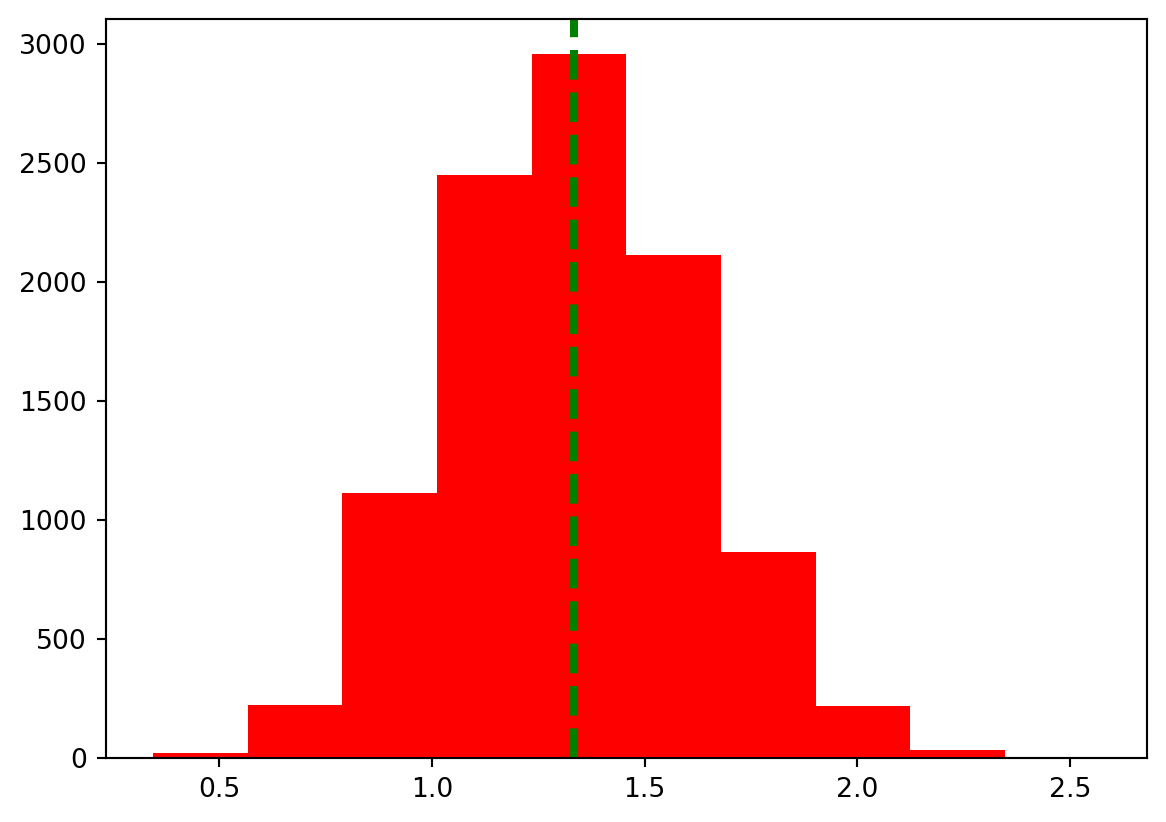
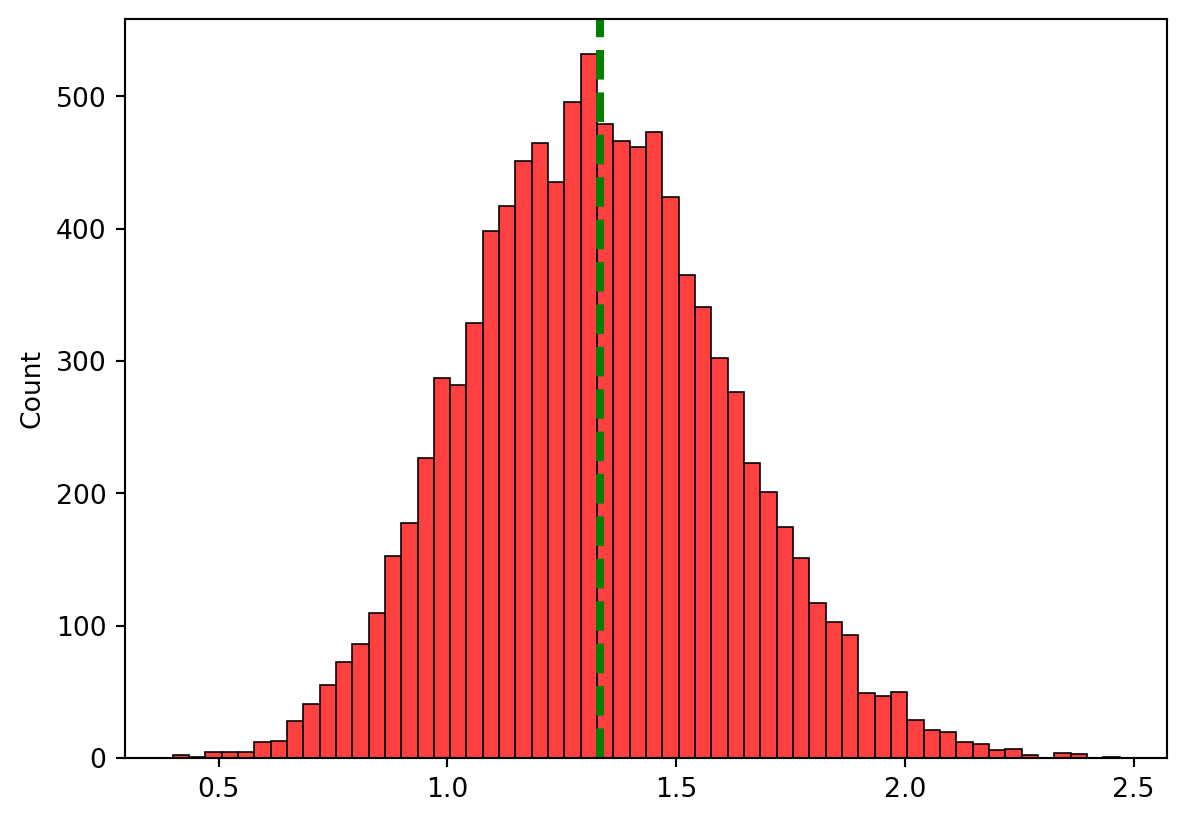
dsd

diff --git a/docs/posts/hw5/index.html b/docs/posts/hw5/index.html
@@ -203,30 +203,32 @@ pre > code.sourceCode > span > a:first-child::before { text-decoration: underlin
 <h1>표본 분산 계산 시 왜 n-1로 나누는지 알아보도록 하겠습니다. 균일분포 (3, 7)에서 20개의 표본을 뽑아서 분산을 2가지 방법으로 추정해보세요.</h1>
 <section id="n-1로-나눈-것을-s_2-n으로-나눈-것을-k_2로-정의하고-s_2의-분포와-k_2의-분포를-그려주세요-10000개-사용" class="level2">
 <h2 class="anchored" data-anchor-id="n-1로-나눈-것을-s_2-n으로-나눈-것을-k_2로-정의하고-s_2의-분포와-k_2의-분포를-그려주세요-10000개-사용">1. n-1로 나눈 것을 s_2, n으로 나눈 것을 k_2로 정의하고, s_2의 분포와 k_2의 분포를 그려주세요! (10000개 사용)</h2>
-<div id="8c78c66b" class="cell" data-execution_count="1">
+<div id="b9e6933f" class="cell" data-execution_count="1">
 <div class="sourceCode cell-code" id="cb1"><pre class="sourceCode python code-with-copy"><code class="sourceCode python"><span id="cb1-1"><a href="#cb1-1" aria-hidden="true" tabindex="-1"></a><span class="im">import</span> numpy <span class="im">as</span> np</span>
 <span id="cb1-2"><a href="#cb1-2" aria-hidden="true" tabindex="-1"></a><span class="im">import</span> matplotlib.pyplot <span class="im">as</span> plt</span>
-<span id="cb1-3"><a href="#cb1-3" aria-hidden="true" tabindex="-1"></a></span>
-<span id="cb1-4"><a href="#cb1-4" aria-hidden="true" tabindex="-1"></a>s_2 <span class="op">=</span> []</span>
-<span id="cb1-5"><a href="#cb1-5" aria-hidden="true" tabindex="-1"></a>k_2 <span class="op">=</span> []</span>
-<span id="cb1-6"><a href="#cb1-6" aria-hidden="true" tabindex="-1"></a></span>
-<span id="cb1-7"><a href="#cb1-7" aria-hidden="true" tabindex="-1"></a><span class="cf">for</span> i <span class="kw">in</span> <span class="bu">range</span>(<span class="dv">10000</span>):</span>
-<span id="cb1-8"><a href="#cb1-8" aria-hidden="true" tabindex="-1"></a>    uni <span class="op">=</span> np.random.uniform(<span class="dv">3</span>, <span class="dv">7</span>, <span class="dv">20</span>)</span>
-<span id="cb1-9"><a href="#cb1-9" aria-hidden="true" tabindex="-1"></a>    uni</span>
-<span id="cb1-10"><a href="#cb1-10" aria-hidden="true" tabindex="-1"></a>    uni_mean <span class="op">=</span> uni.mean()</span>
-<span id="cb1-11"><a href="#cb1-11" aria-hidden="true" tabindex="-1"></a>    a <span class="op">=</span> <span class="bu">sum</span>((uni <span class="op">-</span> uni_mean) <span class="op">**</span> <span class="dv">2</span>)</span>
-<span id="cb1-12"><a href="#cb1-12" aria-hidden="true" tabindex="-1"></a>    s <span class="op">=</span> a <span class="op">/</span> (<span class="bu">len</span>(uni) <span class="op">-</span> <span class="dv">1</span>) </span>
-<span id="cb1-13"><a href="#cb1-13" aria-hidden="true" tabindex="-1"></a>    k <span class="op">=</span> a <span class="op">/</span> (<span class="bu">len</span>(uni))</span>
-<span id="cb1-14"><a href="#cb1-14" aria-hidden="true" tabindex="-1"></a>    s_2.append(s)</span>
-<span id="cb1-15"><a href="#cb1-15" aria-hidden="true" tabindex="-1"></a>    k_2.append(k)</span>
-<span id="cb1-16"><a href="#cb1-16" aria-hidden="true" tabindex="-1"></a>    </span>
-<span id="cb1-17"><a href="#cb1-17" aria-hidden="true" tabindex="-1"></a>plt.hist(s_2, color <span class="op">=</span> <span class="st">'r'</span>)</span>
-<span id="cb1-18"><a href="#cb1-18" aria-hidden="true" tabindex="-1"></a>plt.show()</span>
-<span id="cb1-19"><a href="#cb1-19" aria-hidden="true" tabindex="-1"></a>plt.clf()</span></code><button title="Copy to Clipboard" class="code-copy-button"><i class="bi"></i></button></pre></div>
+<span id="cb1-3"><a href="#cb1-3" aria-hidden="true" tabindex="-1"></a><span class="im">import</span> seaborn <span class="im">as</span> sns</span>
+<span id="cb1-4"><a href="#cb1-4" aria-hidden="true" tabindex="-1"></a></span>
+<span id="cb1-5"><a href="#cb1-5" aria-hidden="true" tabindex="-1"></a></span>
+<span id="cb1-6"><a href="#cb1-6" aria-hidden="true" tabindex="-1"></a>s_2 <span class="op">=</span> []</span>
+<span id="cb1-7"><a href="#cb1-7" aria-hidden="true" tabindex="-1"></a>k_2 <span class="op">=</span> []</span>
+<span id="cb1-8"><a href="#cb1-8" aria-hidden="true" tabindex="-1"></a></span>
+<span id="cb1-9"><a href="#cb1-9" aria-hidden="true" tabindex="-1"></a><span class="cf">for</span> i <span class="kw">in</span> <span class="bu">range</span>(<span class="dv">10000</span>):</span>
+<span id="cb1-10"><a href="#cb1-10" aria-hidden="true" tabindex="-1"></a>    uni <span class="op">=</span> np.random.uniform(<span class="dv">3</span>, <span class="dv">7</span>, <span class="dv">20</span>)</span>
+<span id="cb1-11"><a href="#cb1-11" aria-hidden="true" tabindex="-1"></a>    uni</span>
+<span id="cb1-12"><a href="#cb1-12" aria-hidden="true" tabindex="-1"></a>    uni_mean <span class="op">=</span> uni.mean()</span>
+<span id="cb1-13"><a href="#cb1-13" aria-hidden="true" tabindex="-1"></a>    a <span class="op">=</span> <span class="bu">sum</span>((uni <span class="op">-</span> uni_mean) <span class="op">**</span> <span class="dv">2</span>)</span>
+<span id="cb1-14"><a href="#cb1-14" aria-hidden="true" tabindex="-1"></a>    s <span class="op">=</span> a <span class="op">/</span> (<span class="bu">len</span>(uni) <span class="op">-</span> <span class="dv">1</span>) </span>
+<span id="cb1-15"><a href="#cb1-15" aria-hidden="true" tabindex="-1"></a>    k <span class="op">=</span> a <span class="op">/</span> (<span class="bu">len</span>(uni))</span>
+<span id="cb1-16"><a href="#cb1-16" aria-hidden="true" tabindex="-1"></a>    s_2.append(s)</span>
+<span id="cb1-17"><a href="#cb1-17" aria-hidden="true" tabindex="-1"></a>    k_2.append(k)</span>
+<span id="cb1-18"><a href="#cb1-18" aria-hidden="true" tabindex="-1"></a>    </span>
+<span id="cb1-19"><a href="#cb1-19" aria-hidden="true" tabindex="-1"></a>sns.histplot(s_2, color <span class="op">=</span> <span class="st">'r'</span>)</span>
+<span id="cb1-20"><a href="#cb1-20" aria-hidden="true" tabindex="-1"></a>plt.show()</span>
+<span id="cb1-21"><a href="#cb1-21" aria-hidden="true" tabindex="-1"></a>plt.clf()</span></code><button title="Copy to Clipboard" class="code-copy-button"><i class="bi"></i></button></pre></div>
 <div class="cell-output cell-output-display">
 <div>
 <figure class="figure">
-<p><img src="index_files/figure-html/cell-2-output-1.png" width="583" height="411" class="figure-img"></p>
+<p><img src="index_files/figure-html/cell-2-output-1.png" width="593" height="411" class="figure-img"></p>
 </figure>
 </div>
 </div>
@@ -234,80 +236,71 @@ pre > code.sourceCode > span > a:first-child::before { text-decoration: underlin
 <pre><code>&lt;Figure size 672x480 with 0 Axes&gt;</code></pre>
 </div>
 </div>
-<div id="48fc98ac" class="cell" data-execution_count="2">
-<div class="sourceCode cell-code" id="cb3"><pre class="sourceCode python code-with-copy"><code class="sourceCode python"><span id="cb3-1"><a href="#cb3-1" aria-hidden="true" tabindex="-1"></a>plt.hist(k_2, color <span class="op">=</span> <span class="st">'b'</span>)</span>
-<span id="cb3-2"><a href="#cb3-2" aria-hidden="true" tabindex="-1"></a>plt.show()</span>
-<span id="cb3-3"><a href="#cb3-3" aria-hidden="true" tabindex="-1"></a>plt.clf()</span></code><button title="Copy to Clipboard" class="code-copy-button"><i class="bi"></i></button></pre></div>
+<div id="729d2ec2" class="cell" data-execution_count="2">
+<div class="sourceCode cell-code" id="cb3"><pre class="sourceCode python code-with-copy"><code class="sourceCode python"><span id="cb3-1"><a href="#cb3-1" aria-hidden="true" tabindex="-1"></a>plt.clf()</span>
+<span id="cb3-2"><a href="#cb3-2" aria-hidden="true" tabindex="-1"></a>sns.histplot(k_2, color <span class="op">=</span> <span class="st">'b'</span>)</span>
+<span id="cb3-3"><a href="#cb3-3" aria-hidden="true" tabindex="-1"></a>plt.show()</span></code><button title="Copy to Clipboard" class="code-copy-button"><i class="bi"></i></button></pre></div>
 <div class="cell-output cell-output-display">
 <div>
 <figure class="figure">
-<p><img src="index_files/figure-html/cell-3-output-1.png" width="583" height="411" class="figure-img"></p>
+<p><img src="index_files/figure-html/cell-3-output-1.png" width="593" height="411" class="figure-img"></p>
 </figure>
 </div>
-</div>
-<div class="cell-output cell-output-display">
-<pre><code>&lt;Figure size 672x480 with 0 Axes&gt;</code></pre>
 </div>
 </div>
 </section>
 <section id="각-분포-그래프에-모분산의-위치에-녹색-막대를-그려주세요." class="level2">
 <h2 class="anchored" data-anchor-id="각-분포-그래프에-모분산의-위치에-녹색-막대를-그려주세요.">2. 각 분포 그래프에 모분산의 위치에 녹색 막대를 그려주세요.</h2>
-<div id="6ab9cacb" class="cell" data-execution_count="3">
-<div class="sourceCode cell-code" id="cb5"><pre class="sourceCode python code-with-copy"><code class="sourceCode python"><span id="cb5-1"><a href="#cb5-1" aria-hidden="true" tabindex="-1"></a>pop_var <span class="op">=</span> ((<span class="dv">7</span> <span class="op">-</span> <span class="dv">3</span>) <span class="op">**</span> <span class="dv">2</span>) <span class="op">/</span> <span class="dv">12</span> </span>
-<span id="cb5-2"><a href="#cb5-2" aria-hidden="true" tabindex="-1"></a></span>
+<div id="5483d78d" class="cell" data-execution_count="3">
+<div class="sourceCode cell-code" id="cb4"><pre class="sourceCode python code-with-copy"><code class="sourceCode python"><span id="cb4-1"><a href="#cb4-1" aria-hidden="true" tabindex="-1"></a>plt.clf()</span>
+<span id="cb4-2"><a href="#cb4-2" aria-hidden="true" tabindex="-1"></a>pop_var <span class="op">=</span> ((<span class="dv">7</span> <span class="op">-</span> <span class="dv">3</span>) <span class="op">**</span> <span class="dv">2</span>) <span class="op">/</span> <span class="dv">12</span> </span>
+<span id="cb4-3"><a href="#cb4-3" aria-hidden="true" tabindex="-1"></a></span>
+<span id="cb4-4"><a href="#cb4-4" aria-hidden="true" tabindex="-1"></a>plt.axvline(pop_var, color <span class="op">=</span> <span class="st">'green'</span>, linestyle <span class="op">=</span> <span class="st">'--'</span>,  linewidth <span class="op">=</span> <span class="dv">3</span>)</span>
+<span id="cb4-5"><a href="#cb4-5" aria-hidden="true" tabindex="-1"></a>sns.histplot(s_2, color <span class="op">=</span> <span class="st">'r'</span>)</span>
+<span id="cb4-6"><a href="#cb4-6" aria-hidden="true" tabindex="-1"></a>plt.show()</span></code><button title="Copy to Clipboard" class="code-copy-button"><i class="bi"></i></button></pre></div>
+<div class="cell-output cell-output-display">
+<div>
+<figure class="figure">
+<p><img src="index_files/figure-html/cell-4-output-1.png" width="593" height="411" class="figure-img"></p>
+</figure>
+</div>
+</div>
+</div>
+<div id="f23ecc06" class="cell" data-execution_count="4">
+<div class="sourceCode cell-code" id="cb5"><pre class="sourceCode python code-with-copy"><code class="sourceCode python"><span id="cb5-1"><a href="#cb5-1" aria-hidden="true" tabindex="-1"></a>plt.clf()</span>
+<span id="cb5-2"><a href="#cb5-2" aria-hidden="true" tabindex="-1"></a>sns.histplot(k_2, color <span class="op">=</span> <span class="st">'b'</span>)</span>
 <span id="cb5-3"><a href="#cb5-3" aria-hidden="true" tabindex="-1"></a>plt.axvline(pop_var, color <span class="op">=</span> <span class="st">'green'</span>, linestyle <span class="op">=</span> <span class="st">'--'</span>,  linewidth <span class="op">=</span> <span class="dv">3</span>)</span>
-<span id="cb5-4"><a href="#cb5-4" aria-hidden="true" tabindex="-1"></a>plt.hist(s_2, color <span class="op">=</span> <span class="st">'r'</span>)</span>
-<span id="cb5-5"><a href="#cb5-5" aria-hidden="true" tabindex="-1"></a>plt.show()</span>
-<span id="cb5-6"><a href="#cb5-6" aria-hidden="true" tabindex="-1"></a>plt.clf()</span></code><button title="Copy to Clipboard" class="code-copy-button"><i class="bi"></i></button></pre></div>
+<span id="cb5-4"><a href="#cb5-4" aria-hidden="true" tabindex="-1"></a>plt.show()</span></code><button title="Copy to Clipboard" class="code-copy-button"><i class="bi"></i></button></pre></div>
 <div class="cell-output cell-output-display">
 <div>
 <figure class="figure">
-<p><img src="index_files/figure-html/cell-4-output-1.png" width="583" height="411" class="figure-img"></p>
+<p><img src="index_files/figure-html/cell-5-output-1.png" width="593" height="411" class="figure-img"></p>
 </figure>
 </div>
-</div>
-<div class="cell-output cell-output-display">
-<pre><code>&lt;Figure size 672x480 with 0 Axes&gt;</code></pre>
-</div>
-</div>
-<div id="d1377614" class="cell" data-execution_count="4">
-<div class="sourceCode cell-code" id="cb7"><pre class="sourceCode python code-with-copy"><code class="sourceCode python"><span id="cb7-1"><a href="#cb7-1" aria-hidden="true" tabindex="-1"></a>plt.hist(k_2, color <span class="op">=</span> <span class="st">'b'</span>)</span>
-<span id="cb7-2"><a href="#cb7-2" aria-hidden="true" tabindex="-1"></a>plt.axvline(pop_var, color <span class="op">=</span> <span class="st">'green'</span>, linestyle <span class="op">=</span> <span class="st">'--'</span>,  linewidth <span class="op">=</span> <span class="dv">3</span>)</span>
-<span id="cb7-3"><a href="#cb7-3" aria-hidden="true" tabindex="-1"></a>plt.show()</span>
-<span id="cb7-4"><a href="#cb7-4" aria-hidden="true" tabindex="-1"></a>plt.clf()</span></code><button title="Copy to Clipboard" class="code-copy-button"><i class="bi"></i></button></pre></div>
-<div class="cell-output cell-output-display">
-<div>
-<figure class="figure">
-<p><img src="index_files/figure-html/cell-5-output-1.png" width="583" height="411" class="figure-img"></p>
-</figure>
-</div>
-</div>
-<div class="cell-output cell-output-display">
-<pre><code>&lt;Figure size 672x480 with 0 Axes&gt;</code></pre>
 </div>
 </div>
 </section>
 <section id="결과를-살펴보고-왜-n-1로-나눈-것을-분산을-추정하는-지표로-사용하는-것이-타당한지-써주세요" class="level2">
 <h2 class="anchored" data-anchor-id="결과를-살펴보고-왜-n-1로-나눈-것을-분산을-추정하는-지표로-사용하는-것이-타당한지-써주세요">3. 결과를 살펴보고, 왜 n-1로 나눈 것을 분산을 추정하는 지표로 사용하는 것이 타당한지 써주세요!</h2>
-<div id="b1c327b0" class="cell" data-execution_count="5">
-<div class="sourceCode cell-code" id="cb9"><pre class="sourceCode python code-with-copy"><code class="sourceCode python"><span id="cb9-1"><a href="#cb9-1" aria-hidden="true" tabindex="-1"></a>plt.axvline(pop_var, color <span class="op">=</span> <span class="st">'green'</span>, linestyle <span class="op">=</span> <span class="st">'--'</span>,  linewidth <span class="op">=</span> <span class="dv">3</span>)</span>
-<span id="cb9-2"><a href="#cb9-2" aria-hidden="true" tabindex="-1"></a>plt.hist(s_2, color <span class="op">=</span> <span class="st">'r'</span>)</span>
-<span id="cb9-3"><a href="#cb9-3" aria-hidden="true" tabindex="-1"></a>plt.show()</span>
-<span id="cb9-4"><a href="#cb9-4" aria-hidden="true" tabindex="-1"></a>plt.hist(k_2, color <span class="op">=</span> <span class="st">'b'</span>)</span>
-<span id="cb9-5"><a href="#cb9-5" aria-hidden="true" tabindex="-1"></a>plt.axvline(pop_var, color <span class="op">=</span> <span class="st">'green'</span>, linestyle <span class="op">=</span> <span class="st">'--'</span>,  linewidth <span class="op">=</span> <span class="dv">3</span>)</span>
-<span id="cb9-6"><a href="#cb9-6" aria-hidden="true" tabindex="-1"></a>plt.show()</span>
-<span id="cb9-7"><a href="#cb9-7" aria-hidden="true" tabindex="-1"></a>plt.clf()</span></code><button title="Copy to Clipboard" class="code-copy-button"><i class="bi"></i></button></pre></div>
+<div id="5f96f4d4" class="cell" data-execution_count="5">
+<div class="sourceCode cell-code" id="cb6"><pre class="sourceCode python code-with-copy"><code class="sourceCode python"><span id="cb6-1"><a href="#cb6-1" aria-hidden="true" tabindex="-1"></a>plt.axvline(pop_var, color <span class="op">=</span> <span class="st">'green'</span>, linestyle <span class="op">=</span> <span class="st">'--'</span>,  linewidth <span class="op">=</span> <span class="dv">3</span>)</span>
+<span id="cb6-2"><a href="#cb6-2" aria-hidden="true" tabindex="-1"></a>sns.histplot(s_2, color <span class="op">=</span> <span class="st">'r'</span>)</span>
+<span id="cb6-3"><a href="#cb6-3" aria-hidden="true" tabindex="-1"></a>plt.show()</span>
+<span id="cb6-4"><a href="#cb6-4" aria-hidden="true" tabindex="-1"></a>sns.histplot(k_2, color <span class="op">=</span> <span class="st">'b'</span>)</span>
+<span id="cb6-5"><a href="#cb6-5" aria-hidden="true" tabindex="-1"></a>plt.axvline(pop_var, color <span class="op">=</span> <span class="st">'green'</span>, linestyle <span class="op">=</span> <span class="st">'--'</span>,  linewidth <span class="op">=</span> <span class="dv">3</span>)</span>
+<span id="cb6-6"><a href="#cb6-6" aria-hidden="true" tabindex="-1"></a>plt.show()</span>
+<span id="cb6-7"><a href="#cb6-7" aria-hidden="true" tabindex="-1"></a>plt.clf()</span></code><button title="Copy to Clipboard" class="code-copy-button"><i class="bi"></i></button></pre></div>
 <div class="cell-output cell-output-display">
 <div>
 <figure class="figure">
-<p><img src="index_files/figure-html/cell-6-output-1.png" width="583" height="411" class="figure-img"></p>
+<p><img src="index_files/figure-html/cell-6-output-1.png" width="593" height="411" class="figure-img"></p>
 </figure>
 </div>
 </div>
 <div class="cell-output cell-output-display">
 <div>
 <figure class="figure">
-<p><img src="index_files/figure-html/cell-6-output-2.png" width="583" height="411" class="figure-img"></p>
+<p><img src="index_files/figure-html/cell-6-output-2.png" width="593" height="411" class="figure-img"></p>
 </figure>
 </div>
 </div>

diff --git a/docs/blog.html b/docs/blog.html
@@ -202,7 +202,7 @@ window.Quarto = {
 
 <div class="quarto-listing quarto-listing-container-default" id="listing-listing">
 <div class="list quarto-listing-default">
-<div class="quarto-post image-right" data-index="0" data-categories="bigdata" data-listing-date-sort="1722178800000" data-listing-file-modified-sort="1722258416571" data-listing-date-modified-sort="NaN" data-listing-reading-time-sort="1" data-listing-word-count-sort="199">
+<div class="quarto-post image-right" data-index="0" data-categories="bigdata" data-listing-date-sort="1722178800000" data-listing-file-modified-sort="1722301561203" data-listing-date-modified-sort="NaN" data-listing-reading-time-sort="2" data-listing-word-count-sort="202">
 <div class="thumbnail">
 <p><a href="./posts/hw5/index.html" class="no-external"></a></p><a href="./posts/hw5/index.html" class="no-external">
 <p class="card-img-top"><img src="posts\hw5\index_files\figure-html\cell-2-output-1.png"  class="thumbnail-image card-img"/></p>
